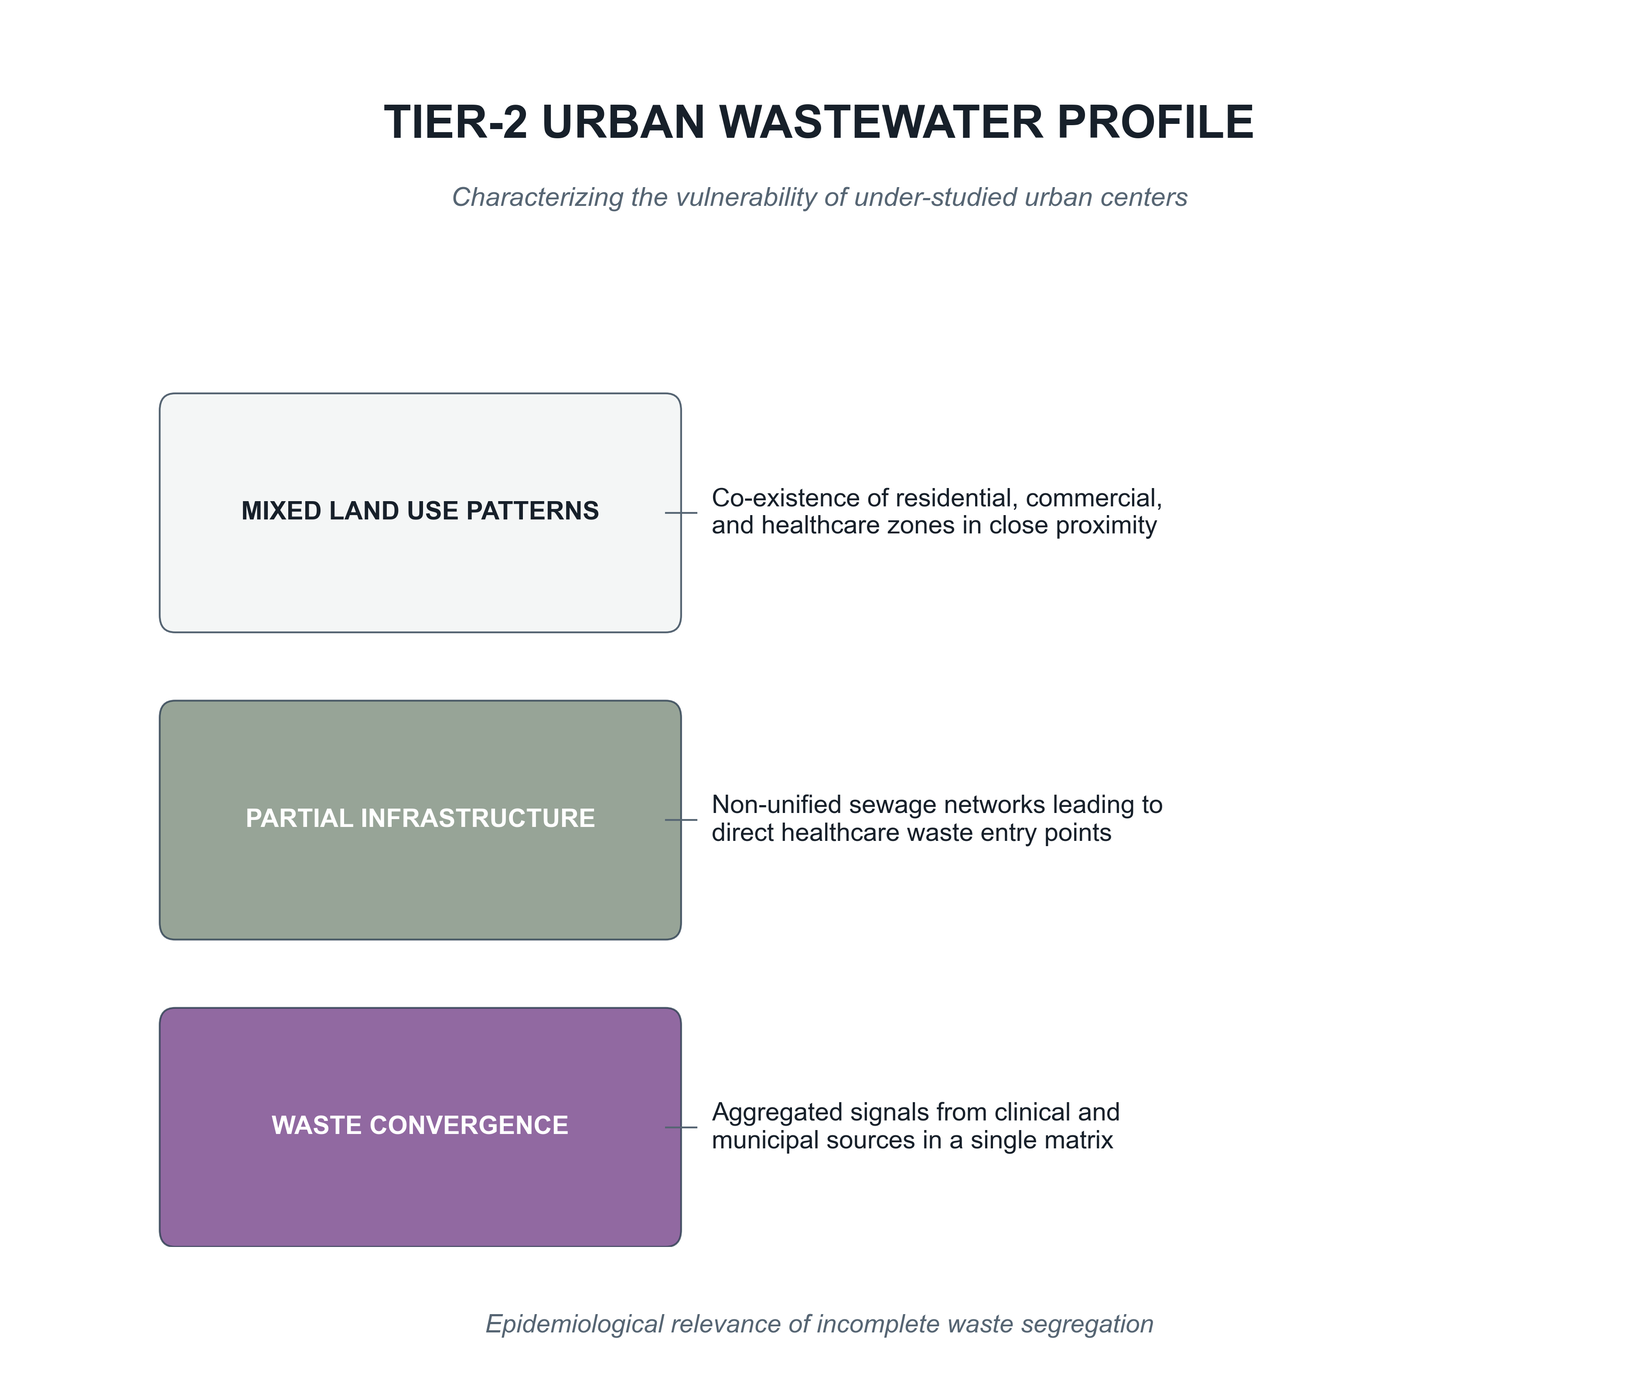
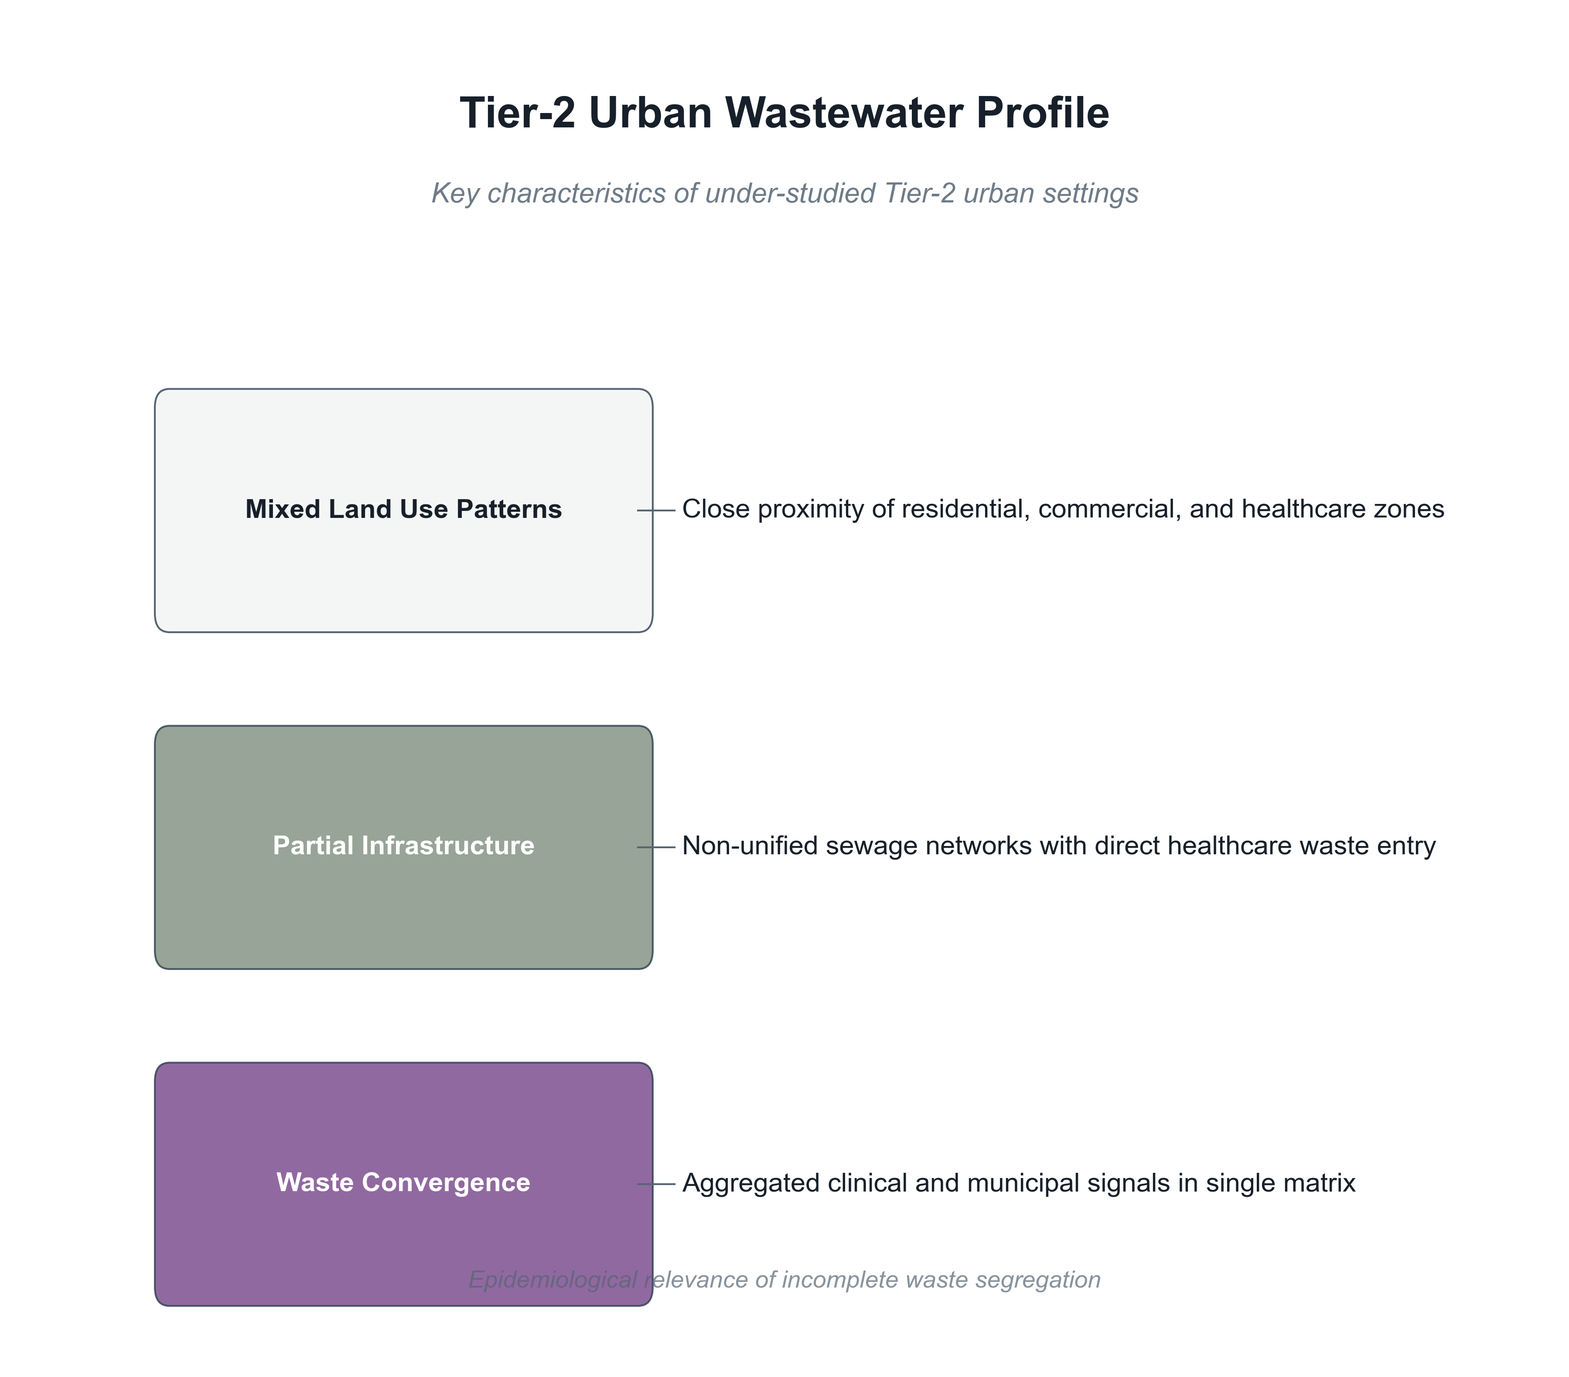
Bruh

diff --git a/visualization/amr_thesis_visualization.py b/visualization/amr_thesis_visualization.py
@@ -94,24 +94,24 @@ def draw_glow_circle(ax, center, radius, color, alpha=0.3, layers=5):
 def draw_one_health_framework(ax, font_scale=1.0):
     """Figure 1: One Health Context of Antimicrobial Resistance."""
     ax.set_xlim(0, 10)
-    ax.set_ylim(0.5, 8.5) # Tightened Y-limits
+    ax.set_ylim(0.2, 8.3)
     ax.set_aspect('equal')
     ax.axis('off')
     
     create_gradient_background(ax)
     
-    # Title - Moved down
-    ax.text(5, 8.0, 'ONE HEALTH CONTEXT OF AMR', fontsize=18*font_scale, fontweight='bold',
+    # Title - Title Case
+    ax.text(5, 7.9, 'One Health Context of Antimicrobial Resistance', fontsize=17*font_scale, fontweight='bold',
             color=COLORS['text_dark'], ha='center', va='center')
     
-    # Subtitle - Moved closer to title
-    ax.text(5, 7.5, 'Wastewater integrates resistance signals across human, animal, and environmental systems', 
-            fontsize=10*font_scale, color=COLORS['text_grey'], ha='center', style='italic')
+    # Subtitle - No quotes, lighter grey
+    ax.text(5, 7.4, 'Wastewater integrates resistance signals across human, animal, and environmental systems', 
+            fontsize=11*font_scale, color=COLORS['text_grey'], ha='center', style='italic', alpha=0.85)
     
-    # Domain Centers - Shifted slightly up to pack
-    H_center = (2.5, 4.5)
-    A_center = (7.5, 4.5)
-    E_center = (5.0, 1.8)
+    # Domain Centers - Perfect equilateral triangle, shifted up
+    H_center = (2.5, 5.0)
+    A_center = (7.5, 5.0)
+    E_center = (5.0, 2.3)
     radius = 1.3
     
     centers = [H_center, A_center, E_center]
@@ -119,57 +119,57 @@ def draw_one_health_framework(ax, font_scale=1.0):
     
     for center, label in zip(centers, labels):
         ax.add_patch(Circle(center, radius, color=COLORS['neutral_light'], ec=COLORS['border'], lw=1.0, zorder=2))
-        ax.text(center[0], center[1], label, fontsize=12*font_scale, fontweight='normal',
+        ax.text(center[0], center[1], label, fontsize=13*font_scale, fontweight='normal',
                color=COLORS['text_dark'], ha='center', va='center', zorder=3)
     
-    # Central Wastewater
-    W_center = (5.0, 3.6)
+    # Central Wastewater - Reduced opacity
+    W_center = (5.0, 4.1)
     W_radius = 1.5
-    ax.add_patch(Circle(W_center, W_radius, color=COLORS['wastewater'], alpha=0.1, ec=COLORS['wastewater'], lw=1.5, linestyle='--', zorder=1))
-    ax.text(W_center[0], W_center[1], 'Urban\nWastewater\nInterface', fontsize=12*font_scale, fontweight='bold',
+    ax.add_patch(Circle(W_center, W_radius, color=COLORS['wastewater'], alpha=0.08, ec=COLORS['wastewater'], lw=1.5, linestyle='--', zorder=1))
+    ax.text(W_center[0], W_center[1], 'Urban\nWastewater\nInterface', fontsize=12.5*font_scale, fontweight='bold',
             color=COLORS['wastewater'], ha='center', va='center', zorder=4)
     
-    # Connectors
+    # Connectors - arrows don't touch circles
     arrow_props = dict(arrowstyle='<->', color=COLORS['neutral'], lw=1.0, mutation_scale=10)
-    ax.annotate('', xy=(A_center[0]-radius-0.05, A_center[1]), xytext=(H_center[0]+radius+0.05, H_center[1]), arrowprops=arrow_props)
+    ax.annotate('', xy=(A_center[0]-radius-0.1, A_center[1]), xytext=(H_center[0]+radius+0.1, H_center[1]), arrowprops=arrow_props)
     
     h_to_e_v = np.array([2.5, -3.0]) / 3.905
-    ax.annotate('', xy=(E_center[0]-h_to_e_v[0]*radius, E_center[1]-h_to_e_v[1]*radius), 
-               xytext=(H_center[0]+h_to_e_v[0]*radius, H_center[1]+h_to_e_v[1]*radius), arrowprops=arrow_props)
+    ax.annotate('', xy=(E_center[0]-h_to_e_v[0]*(radius+0.1), E_center[1]-h_to_e_v[1]*(radius+0.1)), 
+               xytext=(H_center[0]+h_to_e_v[0]*(radius+0.1), H_center[1]+h_to_e_v[1]*(radius+0.1)), arrowprops=arrow_props)
     
     a_to_e_v = np.array([-2.5, -3.0]) / 3.905
-    ax.annotate('', xy=(E_center[0]-a_to_e_v[0]*radius, E_center[1]-a_to_e_v[1]*radius), 
-               xytext=(A_center[0]+a_to_e_v[0]*radius, A_center[1]+a_to_e_v[1]*radius), arrowprops=arrow_props)
+    ax.annotate('', xy=(E_center[0]-a_to_e_v[0]*(radius+0.1), E_center[1]-a_to_e_v[1]*(radius+0.1)), 
+               xytext=(A_center[0]+a_to_e_v[0]*(radius+0.1), A_center[1]+a_to_e_v[1]*(radius+0.1)), arrowprops=arrow_props)
     
-    # Connector labels
-    ax.text(5, 4.7, 'Interspecies spillover', fontsize=9*font_scale, color=COLORS['text_grey'], ha='center')
-    ax.text(2.6, 2.8, 'Anthropogenic\ninputs', fontsize=9*font_scale, color=COLORS['text_grey'], ha='center')
-    ax.text(7.4, 2.8, 'Ecological\ncycling', fontsize=9*font_scale, color=COLORS['text_grey'], ha='center')
+    # Connector labels - Refined language
+    ax.text(5, 5.2, 'Cross-sector interaction', fontsize=10*font_scale, color=COLORS['text_grey'], ha='center')
+    ax.text(2.6, 3.3, 'Human-associated\ninputs', fontsize=10*font_scale, color=COLORS['text_grey'], ha='center')
+    ax.text(7.4, 3.3, 'Environmental\ncirculation', fontsize=10*font_scale, color=COLORS['text_grey'], ha='center')
     
-    # Bottom Caption - Moved closer
-    ax.text(5, 0.4, 'AMR as an interconnected, system-level challenge', 
-            fontsize=10*font_scale, color=COLORS['text_grey'], ha='center', style='italic')
+    # Bottom Caption - Reduced opacity
+    ax.text(5, 0.8, 'AMR as an interconnected, system-level challenge', 
+            fontsize=9.5*font_scale, color=COLORS['text_grey'], ha='center', style='italic', alpha=0.7)
 
 
 def draw_wastewater_sources(ax, font_scale=1.0):
     """Figure 2: Urban Wastewater as a Population-Level AMR Matrix."""
     ax.set_xlim(0, 10)
-    ax.set_ylim(2.2, 8.2) # Tightest limits to pack content
+    ax.set_ylim(2.3, 8.1)
     ax.axis('off')
     
     create_gradient_background(ax)
     
-    # Title - Moved down
-    ax.text(5, 7.8, 'WASTEWATER AS A POPULATION MATRIX', 
-            fontsize=18*font_scale, fontweight='bold', color=COLORS['text_dark'], ha='center')
+    # Title - Title Case
+    ax.text(5, 7.7, 'Wastewater as a Population Matrix', 
+            fontsize=17*font_scale, fontweight='bold', color=COLORS['text_dark'], ha='center')
     
-    # Subtitle - Moved closer
-    ax.text(5, 7.4, 'Population-level integration of antimicrobial resistance signals',
-            fontsize=10.5*font_scale, color=COLORS['text_grey'], ha='center', style='italic')
+    # Subtitle - No quotes
+    ax.text(5, 7.3, 'Population-level integration of antimicrobial resistance signals',
+            fontsize=11*font_scale, color=COLORS['text_grey'], ha='center', style='italic', alpha=0.85)
     
-    # Input boxes - Packed vertically
+    # Input boxes
     box_w, box_h = 2.4, 1.2
-    y_in = 6.2
+    y_in = 6.1
     sources = [
         (1.5, y_in, 'Community\nHouseholds', COLORS['non_medical']),
         (5, y_in, 'Healthcare\nFacilities', COLORS['medical']),
@@ -181,159 +181,159 @@ def draw_wastewater_sources(ax, font_scale=1.0):
                              facecolor=color, alpha=0.8, edgecolor=COLORS['border'], 
                              linewidth=0.8, zorder=2)
         ax.add_patch(rect)
-        ax.text(x, y, label, fontsize=10*font_scale, fontweight='normal', 
+        ax.text(x, y, label, fontsize=11*font_scale, fontweight='normal', 
                color='white' if color != COLORS['neutral_light'] else COLORS['text_dark'],
                ha='center', va='center', zorder=3)
     
-    # Symmetrical Connectors - Tightened
-    arrow_props = dict(arrowstyle='->', color=COLORS['neutral'], lw=1.2, mutation_scale=10)
+    # Symmetrical Connectors - Equal length and angle
+    arrow_props = dict(arrowstyle='->', color=COLORS['neutral'], lw=1.0, mutation_scale=10)
     for x in [1.5, 5, 8.5]:
         start_x, start_y = x, y_in - box_h/2 - 0.05
         target_x = 4.0 if x == 1.5 else (6.0 if x == 8.5 else 5.0)
-        target_y = 5.0
+        target_y = 4.85
         ax.annotate('', xy=(target_x, target_y), xytext=(start_x, start_y), arrowprops=arrow_props)
     
-    # Wastewater focus - Moved up to close gap
-    ax.add_patch(FancyBboxPatch((2, 3.2), 6, 1.8, boxstyle="round,pad=0.1",
+    # Wastewater focus - Reduced height, single line
+    ax.add_patch(FancyBboxPatch((2, 3.4), 6, 1.4, boxstyle="round,pad=0.1",
                                     facecolor=COLORS['wastewater'], alpha=0.1,
                                     edgecolor=COLORS['wastewater'], lw=1.5, zorder=1))
     
-    ax.text(5, 4.3, 'URBAN WASTEWATER SYSTEM', fontsize=14*font_scale, fontweight='bold',
+    ax.text(5, 4.4, 'URBAN WASTEWATER SYSTEM', fontsize=14*font_scale, fontweight='bold',
            color=COLORS['wastewater'], ha='center', zorder=3)
-    ax.text(5, 3.8, 'Integrated Biological Matrix', fontsize=11*font_scale,
+    ax.text(5, 3.9, 'Aggregated Population-Level Resistance Signal', fontsize=11.5*font_scale,
            color=COLORS['text_grey'], ha='center', fontweight='normal', zorder=3)
-    ax.text(5, 3.4, 'Aggregated Population Signals', fontsize=10*font_scale,
-           color=COLORS['text_grey'], ha='center', style='italic', zorder=3)
     
-    # Caption - Tightly packed at bottom
-    ax.text(5, 2.5, 'Reflects aggregated urban resistance pressure, not individual risk', 
-            fontsize=10*font_scale, color=COLORS['text_grey'], ha='center', style='italic')
+    # Caption - Reduced opacity
+    ax.text(5, 2.6, 'Reflects aggregated urban resistance pressure, not individual risk', 
+            fontsize=9.5*font_scale, color=COLORS['text_grey'], ha='center', style='italic', alpha=0.7)
 
 
 def draw_tier_2_context(ax, font_scale=1.0):
     """Figure 3: Tier-2 Indian Urban Context Visualization."""
     ax.set_xlim(0, 10)
-    ax.set_ylim(1.5, 8.5) # Tightened Y-limits
+    ax.set_ylim(1.5, 8.3)
     ax.axis('off')
     
     create_gradient_background(ax)
     
-    # Title - Moved down
-    ax.text(5, 8.0, 'TIER-2 URBAN WASTEWATER PROFILE', 
-            fontsize=18*font_scale, fontweight='bold', color=COLORS['text_dark'], ha='center')
+    # Title - Title Case
+    ax.text(5, 7.9, 'Tier-2 Urban Wastewater Profile', 
+            fontsize=17*font_scale, fontweight='bold', color=COLORS['text_dark'], ha='center')
     
-    ax.text(5, 7.6, 'Characterizing the vulnerability of under-studied urban centers',
-            fontsize=10.5*font_scale, color=COLORS['text_grey'], ha='center', style='italic')
+    # Subtitle - Refined
+    ax.text(5, 7.5, 'Key characteristics of under-studied Tier-2 urban settings',
+            fontsize=11*font_scale, color=COLORS['text_grey'], ha='center', style='italic', alpha=0.85)
     
-    # Descriptive Layers - Packed tighter
+    # Descriptive Layers - Equal spacing, simplified text
     layers = [
-        (6.0, 'MIXED LAND USE PATTERNS', 'Co-existence of residential, commercial,\nand healthcare zones in close proximity', COLORS['neutral_light']),
-        (4.2, 'PARTIAL INFRASTRUCTURE', 'Non-unified sewage networks leading to\ndirect healthcare waste entry points', COLORS['non_medical']),
-        (2.4, 'WASTE CONVERGENCE', 'Aggregated signals from clinical and\nmunicipal sources in a single matrix', COLORS['medical'])
+        (6.0, 'Mixed Land Use Patterns', 'Close proximity of residential, commercial, and healthcare zones', COLORS['neutral_light']),
+        (4.2, 'Partial Infrastructure', 'Non-unified sewage networks with direct healthcare waste entry', COLORS['non_medical']),
+        (2.4, 'Waste Convergence', 'Aggregated clinical and municipal signals in single matrix', COLORS['medical'])
     ]
     
     for y, title, desc, color in layers:
         # Box for title
-        ax.add_patch(FancyBboxPatch((0.8, y-0.8), 3.2, 1.2, boxstyle="round,pad=0.1",
+        ax.add_patch(FancyBboxPatch((0.8, y-0.7), 3.2, 1.1, boxstyle="round,pad=0.1",
                                     facecolor=color, alpha=0.8, ec=COLORS['border'], lw=1.0))
-        ax.text(2.4, y-0.2, title, fontsize=10*font_scale, fontweight='bold', color=COLORS['text_dark'] if color==COLORS['neutral_light'] else 'white', ha='center', va='center')
+        ax.text(2.4, y-0.15, title, fontsize=10.5*font_scale, fontweight='bold', 
+               color=COLORS['text_dark'] if color==COLORS['neutral_light'] else 'white', ha='center', va='center')
         
-        # Annotation for description
-        ax.text(4.3, y-0.2, desc, fontsize=10*font_scale, color=COLORS['text_dark'], ha='left', va='center')
+        # Annotation - Aligned left margin
+        ax.text(4.3, y-0.15, desc, fontsize=10.5*font_scale, color=COLORS['text_dark'], ha='left', va='center')
         
         # Connection line
-        ax.plot([4.0, 4.2], [y-0.2, y-0.2], color=COLORS['neutral'], lw=1.0)
+        ax.plot([4.0, 4.25], [y-0.15, y-0.15], color=COLORS['neutral'], lw=1.0)
     
-    # Concluding line - Moved closer
-    ax.text(5, 1.0, 'Epidemiological relevance of incomplete waste segregation', 
-            fontsize=10*font_scale, color=COLORS['text_grey'], ha='center', style='italic')
+    # Concluding line - Reduced opacity
+    ax.text(5, 1.7, 'Epidemiological relevance of incomplete waste segregation', 
+            fontsize=9.5*font_scale, color=COLORS['text_grey'], ha='center', style='italic', alpha=0.7)
 
 def draw_comparison_framework(ax, font_scale=1.0):
     """Figure 4: Comparative Study Logic."""
     ax.set_xlim(0, 10)
-    ax.set_ylim(1.8, 8.2) # Packed limits
+    ax.set_ylim(1.9, 8.1)
     ax.axis('off')
     
     create_gradient_background(ax)
     
-    # Title - Moved down
-    ax.text(5, 7.8, 'COMPARATIVE STUDY LOGIC',
-            fontsize=18*font_scale, fontweight='bold', color=COLORS['text_dark'], ha='center')
+    # Title - Title Case
+    ax.text(5, 7.7, 'Comparative Study Logic',
+            fontsize=17*font_scale, fontweight='bold', color=COLORS['text_dark'], ha='center')
     
-    ax.text(5, 7.4, 'Evaluating differential resistance signatures across urban contexts',
-            fontsize=10.5*font_scale, color=COLORS['text_grey'], ha='center', style='italic')
+    # Subtitle - Refined
+    ax.text(5, 7.3, 'Ecological comparison of resistance patterns across wastewater types',
+            fontsize=11*font_scale, color=COLORS['text_grey'], ha='center', style='italic', alpha=0.85)
     
-    # Center Separator
-    ax.text(5, 4.8, 'Comparative\nEcological\nAnalysis', fontsize=11*font_scale, fontweight='bold',
+    # Center Separator - Exactly centered
+    ax.text(5, 4.9, 'Comparative\nEcological\nAnalysis', fontsize=11*font_scale, fontweight='bold',
            color=COLORS['neutral'], ha='center', va='center', 
            bbox=dict(boxstyle='circle,pad=0.5', facecolor=COLORS['white'], edgecolor=COLORS['neutral'], lw=1.2))
     
-    # Comparison Panels - Packed tightly
-    box_w, box_h = 4.0, 4.2
+    # Comparison Panels - 3 bullets each, increased spacing
+    box_w, box_h = 4.0, 4.0
     panels = [
-        (0.6, 2.6, 'Medical-influenced\nWastewater', COLORS['medical'], 
-         ['• Proximity to healthcare centers', '• Elevated antibiotic residues', '• Differentiated ARG profiles', '• Hospital point-source impact']),
-        (5.4, 2.6, 'Non-medical\nWastewater', COLORS['non_medical'], 
-         ['• General community baseline', '• Lower clinical drug exposure', '• Background residential signal', '• Baseline urban ARG signature'])
+        (0.6, 2.7, 'Medical-influenced\nWastewater', COLORS['medical'], 
+         ['Elevated antibiotic exposure', 'Point-source healthcare inputs', 'Differentiated ARG patterns']),
+        (5.4, 2.7, 'Non-medical\nWastewater', COLORS['non_medical'], 
+         ['Community baseline signal', 'Distributed urban inputs', 'Background ARG patterns'])
     ]
     
     for x, y, title, color, points in panels:
         ax.add_patch(FancyBboxPatch((x, y), box_w, box_h, boxstyle="round,pad=0.1",
-                                     facecolor=color, alpha=0.08, ec=color, lw=2.0))
-        ax.text(x+box_w/2, y+box_h-0.4, title, fontsize=12.5*font_scale, fontweight='bold', color=color, ha='center')
+                                     facecolor=color, alpha=0.08, ec=color, lw=1.5))
+        ax.text(x+box_w/2, y+box_h-0.4, title, fontsize=13*font_scale, fontweight='bold', color=color, ha='center')
         
+        # Increased spacing between bullets
         for i, pt in enumerate(points):
-            ax.text(x+0.3, y+box_h-1.0 - i*0.7, pt, fontsize=10*font_scale, color=COLORS['text_dark'], ha='left')
+            ax.text(x+0.3, y+box_h-1.1 - i*0.85, f'• {pt}', fontsize=11*font_scale, color=COLORS['text_dark'], ha='left')
     
-    # Footnote - Tighter
-    ax.text(5, 2.1, 'Focus: Resistance patterns, not individual source causality', 
-            fontsize=10*font_scale, color=COLORS['text_grey'], ha='center', style='italic')
+    # Footnote - Reduced opacity
+    ax.text(5, 2.2, 'Focus: Resistance patterns, not individual source causality', 
+            fontsize=9.5*font_scale, color=COLORS['text_grey'], ha='center', style='italic', alpha=0.7)
 
 
 def draw_analysis_pipeline(ax, font_scale=1.0):
     """Figure 5: Analytical and Interpretation Framework Visualization."""
     ax.set_xlim(0, 10)
-    ax.set_ylim(1.5, 8.5) # Tightened limits
+    ax.set_ylim(1.6, 8.3)
     ax.axis('off')
     
     create_gradient_background(ax)
     
-    # Title - Moved down
-    ax.text(5, 8.0, 'ANALYTICAL & INTERPRETATION FRAMEWORK',
-            fontsize=18*font_scale, fontweight='bold', color=COLORS['text_dark'], ha='center')
+    # Title - Title Case
+    ax.text(5, 7.9, 'Analytical & Interpretation Framework',
+            fontsize=17*font_scale, fontweight='bold', color=COLORS['text_dark'], ha='center')
     
-    # Pipeline steps - Packed tighter vertically
+    # Pipeline steps - No numbering emphasis, increased spacing
     steps = [
-        ('1. DATA ACQUISITION', 'Secondary analysis of\nmetagenomic FASTQ'),
-        ('2. ARG ANNOTATION', 'Bioinformatics profiling\n(CARD / ResFinder)'),
-        ('3. COMPARISON', 'Abundance and\ndiversity metrics'),
-        ('4. INTERPRETATION', 'One Health ecological\ncharacterization')
+        ('Data Acquisition', 'Secondary analysis of\nmetagenomic FASTQ'),
+        ('ARG Annotation', 'Bioinformatics profiling\n(CARD / ResFinder)'),
+        ('Comparison', 'Abundance and\ndiversity metrics'),
+        ('Interpretation', 'One Health ecological\ncharacterization')
     ]
     
-    y_step = 6.2
+    y_step = 6.1
     for i, (title, desc) in enumerate(steps):
         if i > 0:
             ax.annotate('', xy=(1.5 + i*2.3, y_step), xytext=(0.9 + i*2.3, y_step), 
-                       arrowprops=dict(arrowstyle='->', color=COLORS['neutral'], lw=1.2))
+                       arrowprops=dict(arrowstyle='->', color=COLORS['neutral'], lw=1.0))
         
         ax.add_patch(FancyBboxPatch((0.4 + i*2.3, y_step-0.8), 2.0, 1.6, boxstyle="round,pad=0.1",
                                     facecolor=COLORS['neutral_light'], ec=COLORS['border'], lw=0.8))
-        ax.text(1.4 + i*2.3, y_step+0.2, title, fontsize=9*font_scale, fontweight='bold', ha='center')
-        ax.text(1.4 + i*2.3, y_step-0.3, desc, fontsize=8*font_scale, color=COLORS['text_grey'], ha='center')
+        ax.text(1.4 + i*2.3, y_step+0.25, title, fontsize=9.5*font_scale, fontweight='bold', ha='center')
+        ax.text(1.4 + i*2.3, y_step-0.3, desc, fontsize=8.5*font_scale, color=COLORS['text_grey'], ha='center')
     
-    # Interpretation Constraint Box - Moved closer
-    ax.add_patch(FancyBboxPatch((1.5, 2.8), 7, 1.8, boxstyle="round,pad=0.2",
+    # Interpretation Constraint Box - Reduced height, simplified
+    ax.add_patch(FancyBboxPatch((1.8, 3.0), 6.4, 1.4, boxstyle="round,pad=0.15",
                                  facecolor=COLORS['medical'], alpha=0.03, ec=COLORS['medical'], lw=1.2, linestyle='--'))
     
-    ax.text(5, 3.9, 'CORE INTERPRETATIVE LIMITATION', fontsize=10.5*font_scale, fontweight='bold', color=COLORS['medical'], ha='center')
-    ax.text(5, 3.4, '“Analysis constrained to population-level ecological patterns”', 
+    ax.text(5, 3.9, 'Interpretation Boundary', fontsize=11*font_scale, fontweight='bold', color=COLORS['medical'], ha='center')
+    ax.text(5, 3.5, 'Analysis constrained to population-level ecological patterns', 
            fontsize=11.5*font_scale, color=COLORS['medical'], ha='center', fontweight='normal', style='italic')
-    ax.text(5, 3.0, 'No clinical diagnostics or individual-level risk assessment',
-           fontsize=9*font_scale, color=COLORS['text_grey'], ha='center')
     
-    # Footnote - Moved closer
-    ax.text(5, 2.0, 'Workflow optimized for characterization of secondary datasets', 
-            fontsize=10*font_scale, color=COLORS['text_grey'], ha='center', style='italic')
+    # Footnote - Reduced opacity
+    ax.text(5, 2.2, 'Workflow optimized for characterization of secondary datasets', 
+            fontsize=9.5*font_scale, color=COLORS['text_grey'], ha='center', style='italic', alpha=0.7)
 
 
 def create_full_visualization():
